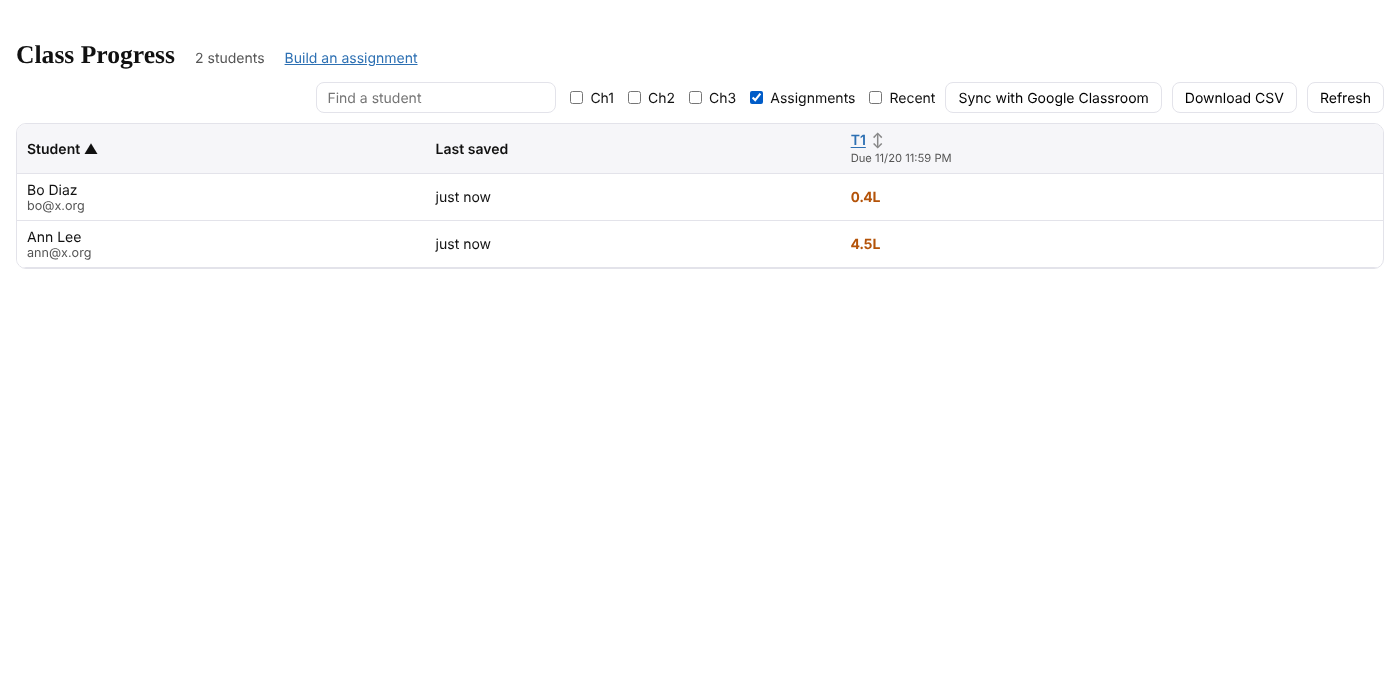
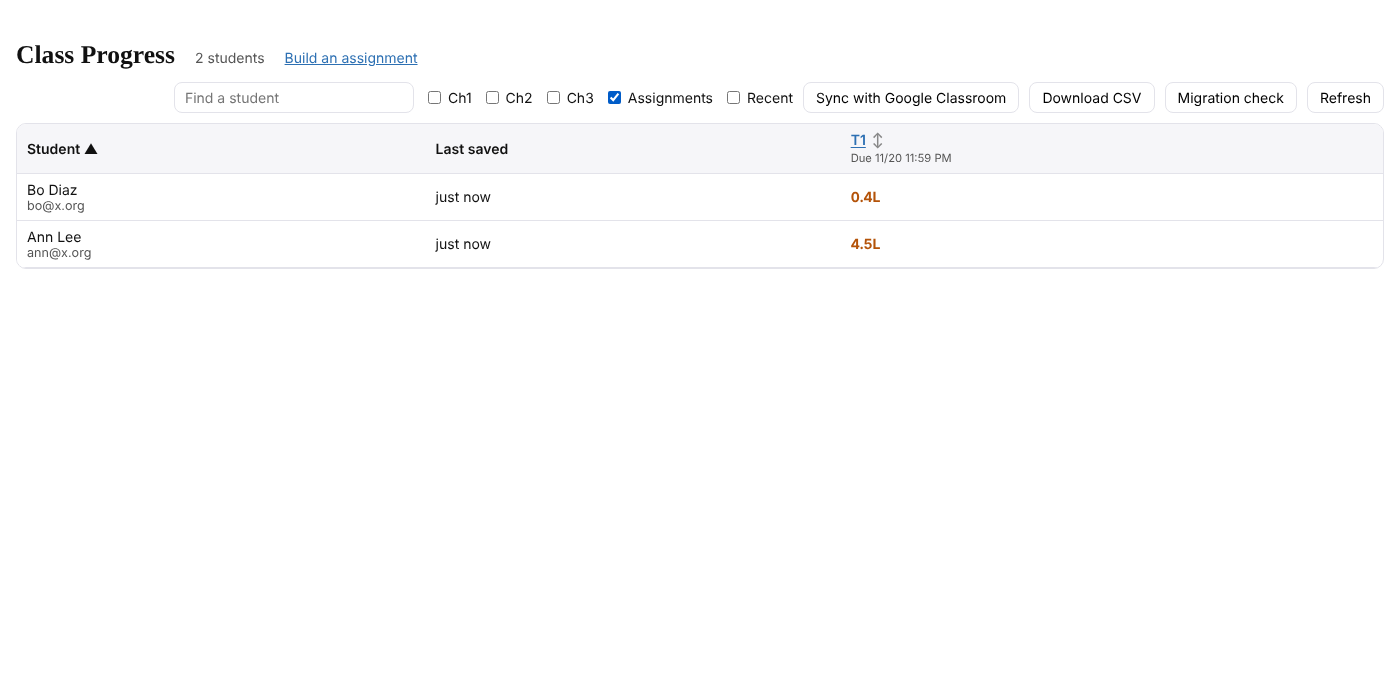
Question Bank step 7: the migration check
tools/check_presets.js (activities half): every preset P-<activity> against the step 1 export
and the activity page itself: abbreviation, title, exercises in order, modes, levels and Write
rounds (28 activities and 2 reviews match). Server migrationCheck and a Migration check button on
Class progress (students half): each student's activity stars in the dated snapshot against their
preset stars now; a preset may be higher, never lower; students whose presets haven't reached
the server yet are listed apart. SETUP.md section 8; CLAUDE.md: run check_presets after changes.

Claude-Session: https://claude.ai/code/session_013war2zUvUg5QKdM1yMmPSD

Changed region(s): [[0.1229, 0.12, 0.9214, 0.15]]

diff --git a/tools/check_presets.js b/tools/check_presets.js
@@ -1,0 +1,51 @@
+// Migration check, activities half (Question Bank migration, step 7): every preset assignment P-<activity> must match its activity as it was
+// exported in step 1 (migration/backup-2026-11-26/activities.json): the same abbreviation and title, the same exercises in the same order
+// (each preset question runs that exercise), the same modes, and the same levels (percent per mode and the number of Write rounds).
+// Reviews (RevT1, RevQ2): the same items in the same order.
+//   node tools/check_presets.js        prints each difference; exits 1 if there is any
+// Needs Playwright (preinstalled in the cloud session).
+const { chromium } = require('playwright');
+const fs = require('fs'), path = require('path');
+const ROOT = path.join(__dirname, '..');
+const EXP = JSON.parse(fs.readFileSync(path.join(ROOT, 'migration/backup-2026-11-26/activities.json'), 'utf8'));
+(async () => {
+  const b = await chromium.launch(), pg = await b.newPage(), errs = [];
+  pg.on('pageerror', e => errs.push(e.message));
+  await pg.route(/^https?:/, r => r.abort()); await pg.route(/auth\.js$/, r => r.fulfill({ body: '', contentType: 'text/javascript' }));
+  await pg.goto('file://' + path.join(ROOT, 'a', 'index.html')); await pg.waitForTimeout(800);
+  const diffs = await pg.evaluate((EXP) => {
+    const out = [], add = (ab, t) => out.push(ab + ": " + t);
+    const place = (base, k) => base === '1.4D' ? { act: '1.4D', lesson: k === 's' ? 2 : +k, subx: k === 's' } : { act: base, lesson: +k, subx: false };
+    EXP.views.forEach(v => {
+      if (!v.exercises.length) return;
+      const ab = v.abbreviation, rec = presetRec(ab); if (!rec) { add(ab, "no preset"); return; }
+      const title = (ACTS.filter(x => x[0] === ab)[0] || [])[1]; if (title !== v.title) add(ab, "title " + JSON.stringify(title) + " is not " + JSON.stringify(v.title));
+      const its = asgItems(rec); if (its.length !== v.exercises.length) add(ab, its.length + " questions, the activity has " + v.exercises.length);
+      v.exercises.forEach((e, i) => {
+        const it = its[i], want = place(VW[ab] ? VW[ab].base : v.section, e.key); if (!it) return;
+        if (it.act !== want.act || it.lesson !== want.lesson || !!it.subx !== want.subx) { add(ab, "question " + (i + 1) + " runs " + it.act + "/" + it.lesson + (it.subx ? " sub" : "") + ", the activity's exercise " + e.key + " (" + e.name + ") is " + want.act + "/" + want.lesson + (want.subx ? " sub" : "")); return; }
+        const B = BUILT[it.act], modes = ((B.modesFor ? B.modesFor(it.lesson) : B.modes) || []).filter(m => m !== 'create'), em = (e.modes || []).filter(m => m !== 'create');
+        if (it.act !== '1.4D' && JSON.stringify(modes) !== JSON.stringify(em)) add(ab, e.name + ": modes " + modes.join(",") + " are not " + em.join(","));
+        // the levels the activity page itself uses (levelsNow, for that activity), and, outside 1.4, the export too (the export holds the old
+        // combined 1.4 levels, from before 1.4 was split into four activities; the 1.4 pages have used their own since)
+        const L = exLevels(it).map(l => [l[0], l[1], l[3] || 1].join("/"));
+        const kk = it.act === '1.4D' ? (it.subx ? 4 : it.lesson === 4 ? 'g' : it.lesson) : it.lesson, sv = [view, act, rev]; view = VW[ab] ? ab : null; act = it.act; rev = null;
+        const PL = levelsNow().filter(l => String(l[0]) === String(kk)).map(l => [l[1], l[2], l[4] || 1].join("/")); view = sv[0]; act = sv[1]; rev = sv[2];
+        if (JSON.stringify(L) !== JSON.stringify(PL)) add(ab, e.name + ": levels " + L.join(" ") + " are not the activity page's " + PL.join(" "));
+        const EL = (e.levels || []).map(l => [l.mode, l.percent, l.round || 1].join("/"));
+        if (it.act !== '1.4D' && EL.length && JSON.stringify(L) !== JSON.stringify(EL)) add(ab, e.name + ": levels " + L.join(" ") + " are not the export's " + EL.join(" "));
+      });
+    });
+    (EXP.reviews || []).forEach(r => {
+      const rec = presetRec(r.abbreviation); if (!rec) { add(r.abbreviation, "no preset"); return; }
+      const its = asgItems(rec); if (its.length !== r.items.length) add(r.abbreviation, its.length + " questions, the review has " + r.items.length);
+      r.items.forEach((o, i) => { const it = its[i]; if (it && (it.act !== o.section || it.lesson !== o.exercise || !!it.subx !== !!o.subx)) add(r.abbreviation, "question " + (i + 1) + " (" + o.q + ") runs " + it.act + "/" + it.lesson); });
+    });
+    return out;
+  }, EXP);
+  await b.close();
+  if (errs.length) diffs.push("page errors: " + errs.slice(0, 3).join(" | "));
+  diffs.forEach(d => console.log(d));
+  console.log(diffs.length ? diffs.length + " differences" : "Every preset matches its activity (" + EXP.views.filter(v => v.exercises.length).length + " activities, " + (EXP.reviews || []).length + " reviews).");
+  process.exit(diffs.length ? 1 : 0);
+})();

diff --git a/teacher/index.html b/teacher/index.html
@@ -57,7 +57,7 @@
   <h1>Class Progress</h1>
   <span class="sub" id="sub"></span>
   <a href="build/" style="color:#2d70b3">Build an assignment</a>
-  <div class="tools"><input type="search" id="q" placeholder="Find a student" aria-label="Find a student"><span class="chk" role="group" aria-label="Show activities"><label><input type="checkbox" data-f="1"> Ch1</label><label><input type="checkbox" data-f="2"> Ch2</label><label><input type="checkbox" data-f="3"> Ch3</label><label><input type="checkbox" data-f="A"> Assignments</label><label><input type="checkbox" data-f="recent"> Recent</label></span><button id="gc">Sync with Google Classroom</button><button id="csv">Download CSV</button><button id="ref">Refresh</button></div>
+  <div class="tools"><input type="search" id="q" placeholder="Find a student" aria-label="Find a student"><span class="chk" role="group" aria-label="Show activities"><label><input type="checkbox" data-f="1"> Ch1</label><label><input type="checkbox" data-f="2"> Ch2</label><label><input type="checkbox" data-f="3"> Ch3</label><label><input type="checkbox" data-f="A"> Assignments</label><label><input type="checkbox" data-f="recent"> Recent</label></span><button id="gc">Sync with Google Classroom</button><button id="csv">Download CSV</button><button id="mig" title="Step 7 of the Question Bank migration: compare the dated snapshot with the preset assignments">Migration check</button><button id="ref">Refresh</button></div>
 </header>
 <div class="note" id="note" hidden role="status"></div>
 <div class="wrap" id="wrap"><div class="msg">Loading…</div></div>
@@ -263,6 +263,17 @@
   });
   [].forEach.call(document.querySelectorAll(".chk input"), function (c) { try { c.checked = localStorage.getItem("an:tf:" + c.dataset.f) === "1"; } catch (e) { } c.addEventListener("change", function () { try { localStorage.setItem("an:tf:" + c.dataset.f, c.checked ? "1" : "0"); } catch (e) { } draw(); }); });
   $("ref").addEventListener("click", load);
+  // the migration check (step 7): the snapshot's activity stars against each student's preset assignments now
+  $("mig").addEventListener("click", function () {
+    var link = prompt("Paste the link of the dated copy of the Progress Sheet (the snapshot):"); if (!link) return;
+    var m = $("note"); m.hidden = false; m.textContent = "Checking every student…"; clearTimeout(alertBar.t);
+    AN.api("migrationCheck", { snapshot: link }).then(function (j) {
+      var d = j.differences || [], w = j.waiting || [];
+      m.innerHTML = "<b>Migration check against " + esc(j.snapshotName) + ":</b> " + j.students + " students, " + j.checked + " activities with stars. " +
+        (d.length ? "<b style=\"color:#8a1c1c\">" + d.length + " differences</b> (a preset below the snapshot):<br>" + d.map(function (x) { return esc(x.student) + " · " + esc(x.activity) + ": snapshot " + x.snapshot.toFixed(1) + ", preset " + x.preset.toFixed(1); }).join("<br>") : "<b>No differences</b>: every preset has at least the snapshot's stars.") +
+        (w.length ? "<br>" + w.length + " students haven't opened the app since the presets came, so their presets aren't on the server yet (they come the next time each signs in): " + w.map(esc).join(", ") : "");
+    }).catch(function (e) { m.textContent = e.message || "The check didn't finish."; });
+  });
   $("csv").addEventListener("click", function () {
     var cols = ["Name", "Email", "Last saved"], lines = [];
     acts.forEach(function (a) { var names = {}; rows.forEach(function (r) { Object.keys((r.detail || {})[a] || {}).forEach(function (n) { names[n] = 1; }); }); Object.keys(names).forEach(function (n) { cols.push(a + " " + n); }); });   // (each exercise's stars earned)

diff --git a/server/SETUP.md b/server/SETUP.md
@@ -56,3 +56,6 @@ The builder posts each assignment in your chosen Google Classroom classes (an as
 3. Publish a new version of **"Use this one: Sign-in, progress, Assignments and Attempts"** (Manage deployments > pencil > New version > Deploy).
 4. On Class progress, click **Sync** and choose your classes again: this records who is in which class (each student's own due date).
 5. In the builder, type each class's calendar course code (as in your class calendar events, like HAlg2-D2) and click **Find class times**.
+
+## 8. The migration check (step 7)
+Class progress has a **Migration check** button: paste the link of the dated copy of the Progress Sheet (the snapshot made at a quiet time, step 6) and it lists every student whose preset assignment has fewer stars than the snapshot's activity (there should be none), and the students whose presets haven't reached the server yet (they come the next time each signs in). It needs the current `server/Code.gs` (replace Code.gs, then publish a new version of the deployment the website uses, as in section 5; no new permissions). The activities half runs from the repo: `node tools/check_presets.js`.

diff --git a/CLAUDE.md b/CLAUDE.md
@@ -38,6 +38,8 @@ Folders that are not activity pages (`1-1`, `1-2`, `2-1`, `2-4`, `1-1play`, `pla
 
 No file or folder name may start with `_`: GitHub Pages does not publish them (the site then misses the file). `bank/place.js` holds where each bank question runs (read by the engine and the builder, `teacher/build/`, which tools/build_pages.py writes from `engine/build.html`).
 
+Preset assignments (`/a/?id=P-<activity>`) must match their activities: `node tools/check_presets.js` (run it after any change to levels, exercises or bank/place.js).
+
 Syntax check before a commit: `node --check engine/app.js` (and each changed file in `bank/`).
 
 ## Copies log
